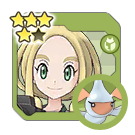
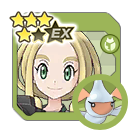
Add v2.29.0

Changed region(s): [[0.2963, 0.0889, 0.5926, 0.3556], [0.2963, 0.0889, 0.3259, 0.1185]]

diff --git a/js/syncpairs.js b/js/syncpairs.js
@@ -2947,7 +2947,8 @@ export const SYNCPAIRS = [
 		"syncPairRegion": "6Kalos",
 		"images": [
 			"Sync Pairs/0F_KALOS/0F_KALOS_0B-01_Viola.png",
-			"Sync Pairs/5Star/0F_KALOS_0B-01_Viola_5Star.png"
+			"Sync Pairs/5Star/0F_KALOS_0B-01_Viola_5Star.png",
+			"Sync Pairs/0F_KALOS/0F_KALOS_0B-01_Viola_EX.png"
 		],
 		"themes": [
 			"Bug",
@@ -3774,6 +3775,38 @@ export const SYNCPAIRS = [
 			"isWoman",
 			"Multiple Units",
 			"Trainer Lodge"
+		]
+	},
+	{
+		"dexNumber": "069",
+		"trainerName": "Elesa",
+		"trainerAlt": "Palentine's 2023",
+		"pokemonNumber": "0176",
+		"pokemonName": "Togetic",
+		"pokemonGender": "♀",
+		"pokemonForm": [],
+		"pokemonType": "Flying",
+		"pokemonWeak": "Steel",
+		"syncPairRole": "Physical Strike",
+		"syncPairRarity": "5",
+		"releaseDate": "2023-02-02",
+		"syncPairRegion": "5Unova",
+		"images": [
+			"Sync Pairs/0Y_SEASONALS/0Z_0E_PAL_2023_Elesa.png",
+			"Sync Pairs/0Y_SEASONALS/0Z_0E_PAL_2023_Elesa_EX.png"
+		],
+		"themes": [
+			"Flying",
+			"Unova",
+			"Seasonal Outfit",
+			"Scarf",
+			"Artistic"
+		],
+		"tags": [
+			"isWoman",
+			"Limited Sync Pair Scout",
+			"Multiple Units",
+			"Palentine"
 		]
 	},
 	{
@@ -5996,6 +6029,37 @@ export const SYNCPAIRS = [
 		]
 	},
 	{
+		"dexNumber": "099",
+		"trainerName": "Morty",
+		"trainerAlt": "Lodge",
+		"pokemonNumber": "0092",
+		"pokemonName": "Gastly",
+		"pokemonGender": "♂",
+		"pokemonForm": [],
+		"pokemonType": "Ghost",
+		"pokemonWeak": "Dark",
+		"syncPairRole": "Support",
+		"syncPairRarity": "4",
+		"releaseDate": "2023-02-01",
+		"syncPairRegion": "2Johto",
+		"images": [
+			"Sync Pairs/0B_JOHTO/0B_JOHTO_0B-04_TL_Morty.png",
+			"Sync Pairs/5Star/0B_JOHTO_0B-04_TL_Morty_5Star.png"
+		],
+		"themes": [
+			"Ghost",
+			"Johto",
+			"Gym Leader",
+			"Scarf",
+			"Supernatural"
+		],
+		"tags": [
+			"isMan",
+			"Multiple Units",
+			"Trainer Lodge"
+		]
+	},
+	{
 		"dexNumber": "100",
 		"trainerName": "Cyrus",
 		"trainerAlt": "",
@@ -7067,7 +7131,40 @@ export const SYNCPAIRS = [
 		],
 		"tags": [
 			"Gen Pool",
-			"isWoman"
+			"isWoman",
+			"Multiple Units"
+		]
+	},
+	{
+		"dexNumber": "114",
+		"trainerName": "Mallow",
+		"trainerAlt": "Palentine's 2023",
+		"pokemonNumber": "0842",
+		"pokemonName": "Appletun",
+		"pokemonGender": "♀",
+		"pokemonForm": [],
+		"pokemonType": "Dragon",
+		"pokemonWeak": "Flying",
+		"syncPairRole": "Support",
+		"syncPairRarity": "5",
+		"releaseDate": "2023-01-31",
+		"syncPairRegion": "7Alola",
+		"images": [
+			"Sync Pairs/0Y_SEASONALS/0Z_0E_PAL_2023_Mallow.png",
+			"Sync Pairs/0Y_SEASONALS/0Z_0E_PAL_2023_Mallow_EX.png"
+		],
+		"themes": [
+			"Dragon",
+			"Alola",
+			"Seasonal Outfit",
+			"Pigtails",
+			"Cook"
+		],
+		"tags": [
+			"isWoman",
+			"Limited Sync Pair Scout",
+			"Multiple Units",
+			"Palentine"
 		]
 	},
 	{
@@ -7099,7 +7196,42 @@ export const SYNCPAIRS = [
 			"Limited Sync Pair Scout",
 			"Poké Fair",
 			"isMan",
-			"Legendary"
+			"Legendary",
+			"Multiple Units"
+		]
+	},
+	{
+		"dexNumber": "115",
+		"trainerName": "Lysandre",
+		"trainerAlt": "Sygna Suit",
+		"pokemonNumber": "0721",
+		"pokemonName": "Volcanion",
+		"pokemonGender": "",
+		"pokemonForm": [],
+		"pokemonType": "Water",
+		"pokemonWeak": "Rock",
+		"syncPairRole": "Special Strike",
+		"syncPairRarity": "5",
+		"releaseDate": "2023-02-13",
+		"syncPairRegion": "6Kalos",
+		"images": [
+			"Sync Pairs/0F_KALOS/0F_KALOS_0D-01_ssLysandre.png",
+			"Sync Pairs/0F_KALOS/0F_KALOS_0D-01_ssLysandre_EX.png"
+		],
+		"themes": [
+			"Water",
+			"Kalos",
+			"Villain",
+			"Sygna Suit",
+			"Researcher"
+		],
+		"tags": [
+			"Buddy Move",
+			"isMan",
+			"Limited Sync Pair Scout",
+			"Multiple Units",
+			"Poké Fair",
+			"Mythical"
 		]
 	},
 	{
@@ -9144,6 +9276,68 @@ export const SYNCPAIRS = [
 			"Gen Pool",
 			"Starter"
 		]
+	},
+	{
+		"dexNumber": "163",
+		"trainerName": "Anabel",
+		"trainerAlt": "",
+		"pokemonNumber": "0143",
+		"pokemonName": "Snorlax",
+		"pokemonGender": "♂",
+		"pokemonForm": [
+			"Gigantamax"
+		],
+		"pokemonType": "Normal",
+		"pokemonWeak": "Fighting",
+		"syncPairRole": "Support",
+		"syncPairRarity": "5",
+		"releaseDate": "2023-02-15",
+		"syncPairRegion": "7Alola",
+		"images": [
+			"Sync Pairs/0G_ALOLA/0G_ALOLA_0E-03_Anabel.png",
+			"Sync Pairs/0G_ALOLA/0G_ALOLA_0E-03_Anabel_EX.png"
+		],
+		"themes": [
+			"Normal",
+			"Alola",
+			"Grown Woman"
+		],
+		"tags": [
+			"Dynamax",
+			"isWoman",
+			"Limited Sync Pair Scout",
+			"Poké Fair"
+		]
+	},
+	{
+		"dexNumber": "164",
+		"trainerName": "Emma",
+		"trainerAlt": "",
+		"pokemonNumber": "0169",
+		"pokemonName": "Crobat",
+		"pokemonGender": "♂",
+		"pokemonForm": [],
+		"pokemonType": "Poison",
+		"pokemonWeak": "Psychic",
+		"syncPairRole": "Physical Strike",
+		"syncPairRarity": "5",
+		"releaseDate": "2023-02-17",
+		"syncPairRegion": "6Kalos",
+		"images": [
+			"Sync Pairs/0F_KALOS/0F_KALOS_0F-02_Emma.png",
+			"Sync Pairs/0F_KALOS/0F_KALOS_0F-02_Emma_EX.png"
+		],
+		"themes": [
+			"Poison",
+			"Kalos",
+			"Passionate Spirit"
+		],
+		"tags": [
+			"Buddy Move",
+			"isWoman",
+			"Limited Sync Pair Scout",
+			"Poké Fair"
+		]
 	}
 	/*,
 	{
@@ -9199,4 +9393,4 @@ export const SYNCPAIRS = [
 ]
 
 
-export const VERSION = "v2.28.0";
+export const VERSION = "v2.29.0";

diff --git a/js/news.js b/js/news.js
@@ -1,5 +1,9 @@
 export const NEWS = [
 	{
+		"date": "2023-01-27",
+		"info" : "Add v2.29.0"
+	},
+	{
 		"date": "2023-01-02",
 		"info" : "Update the mobile interface"
 	},
